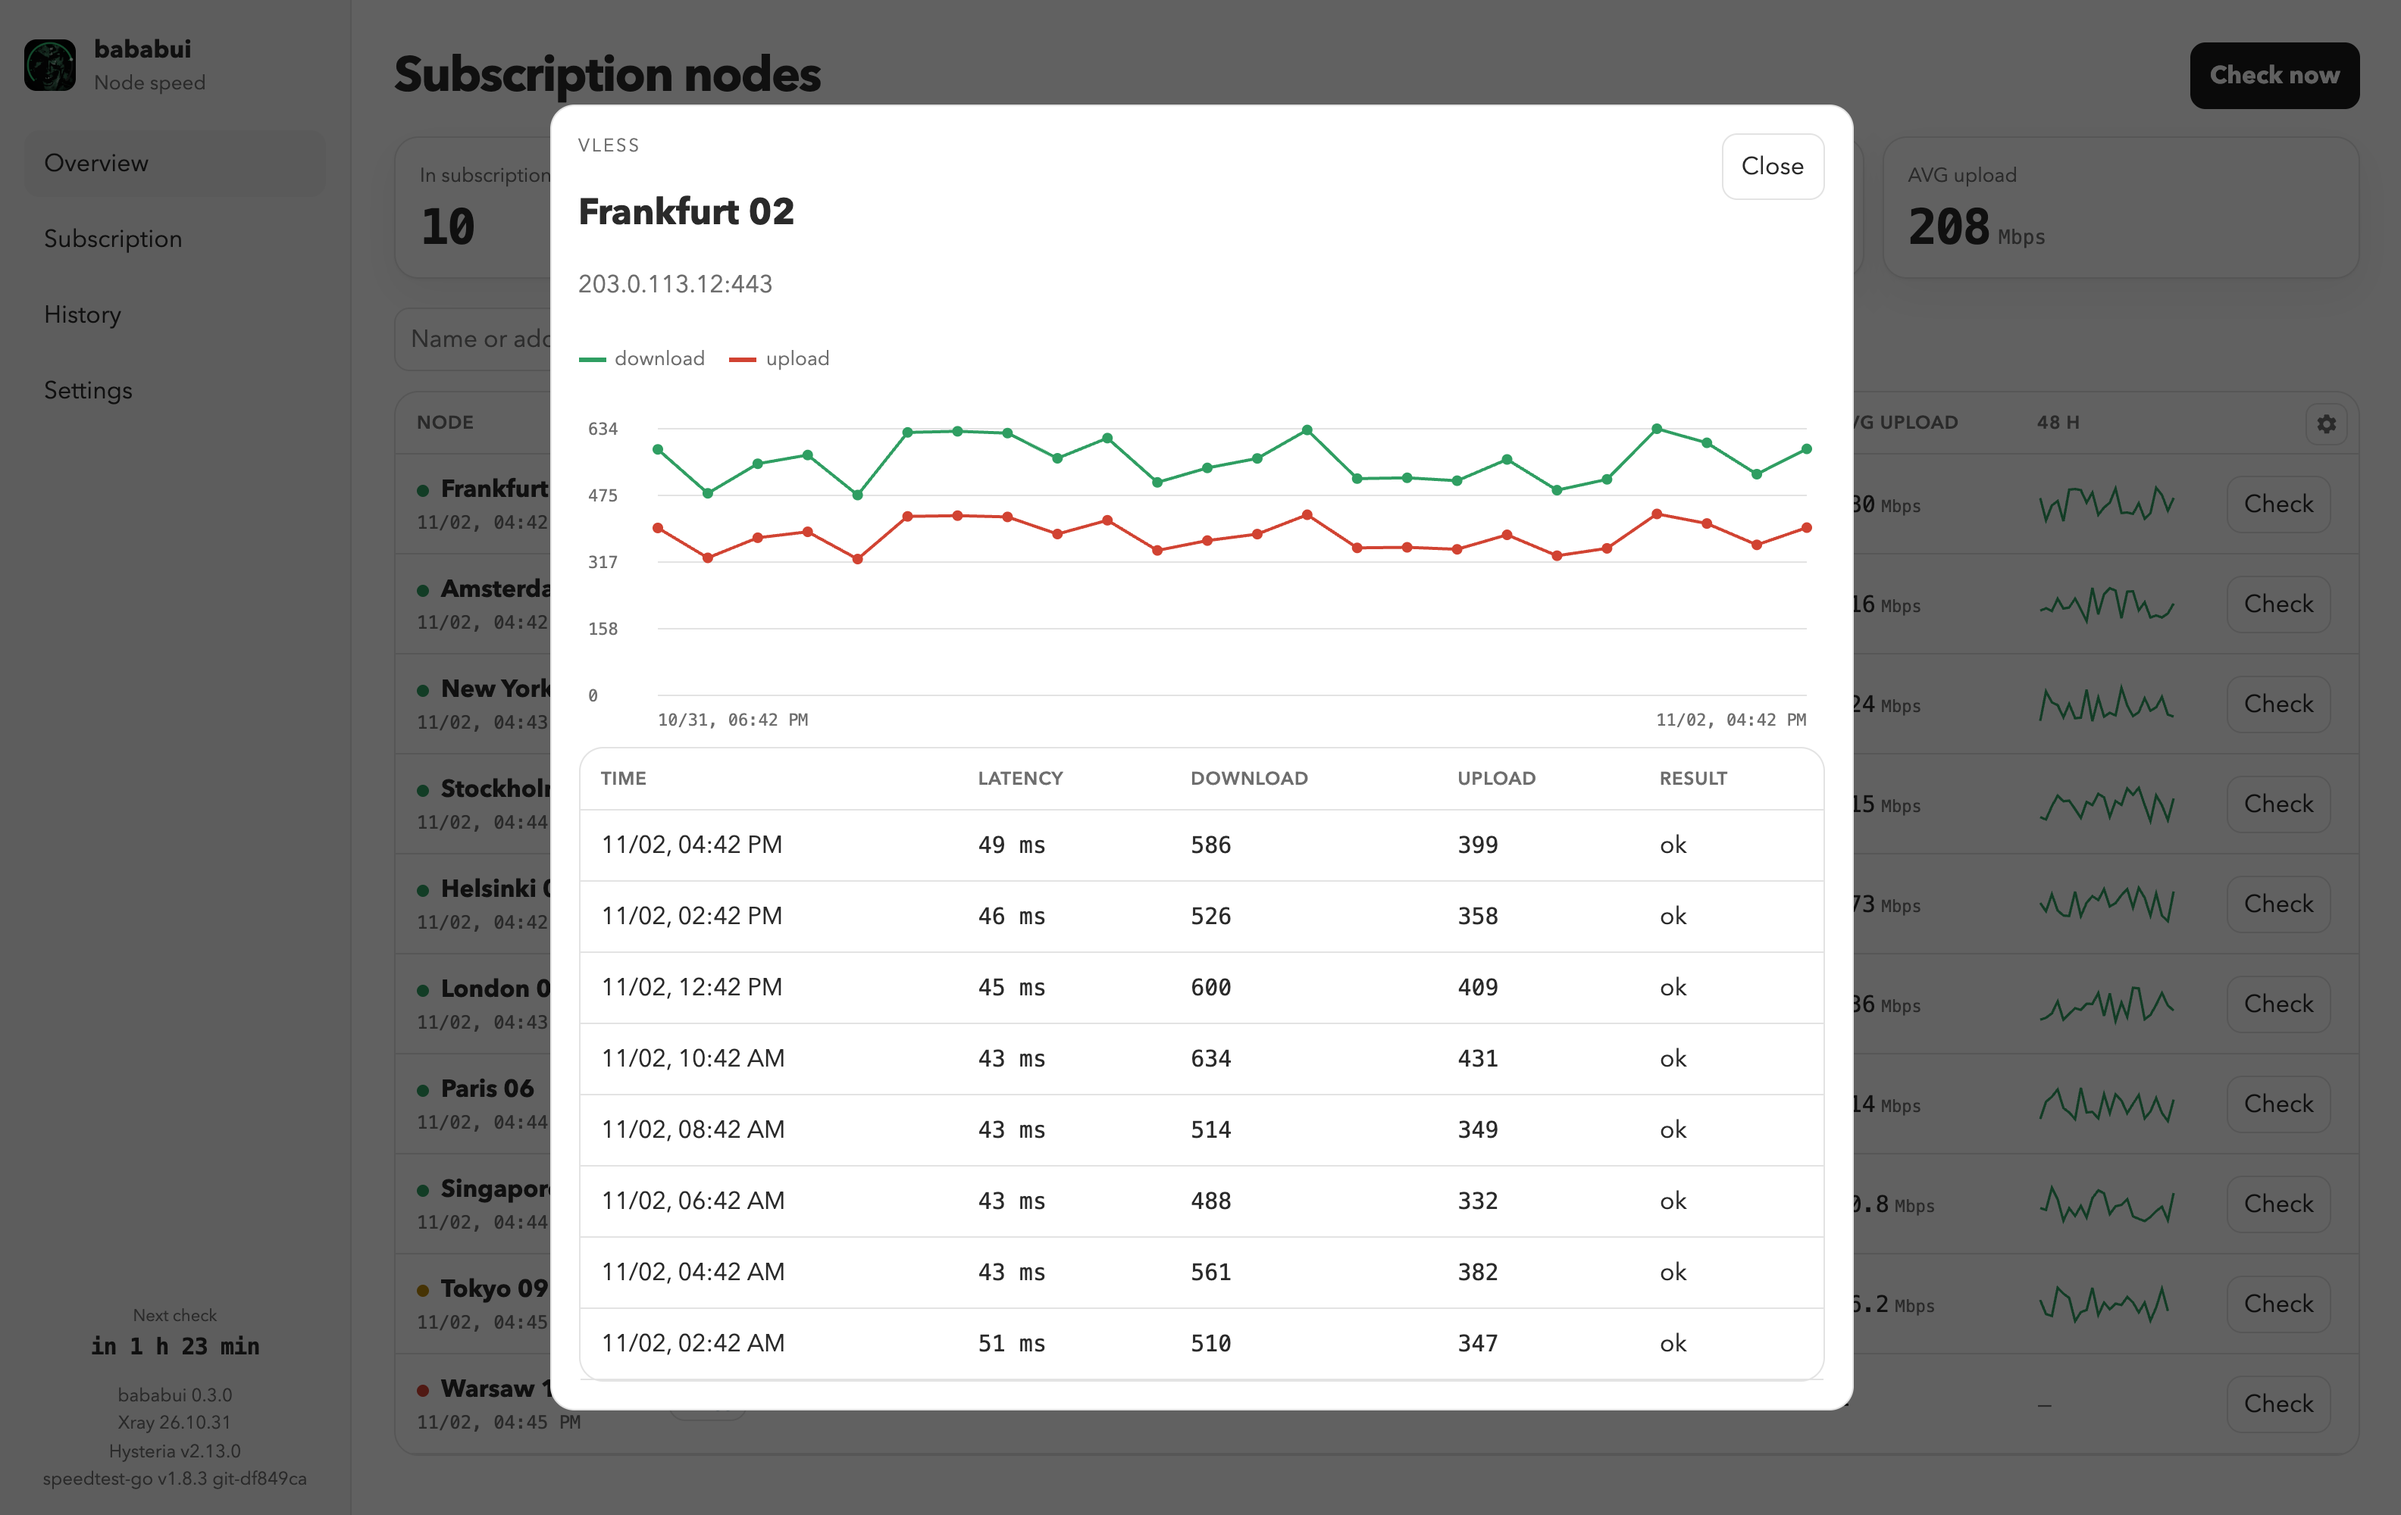
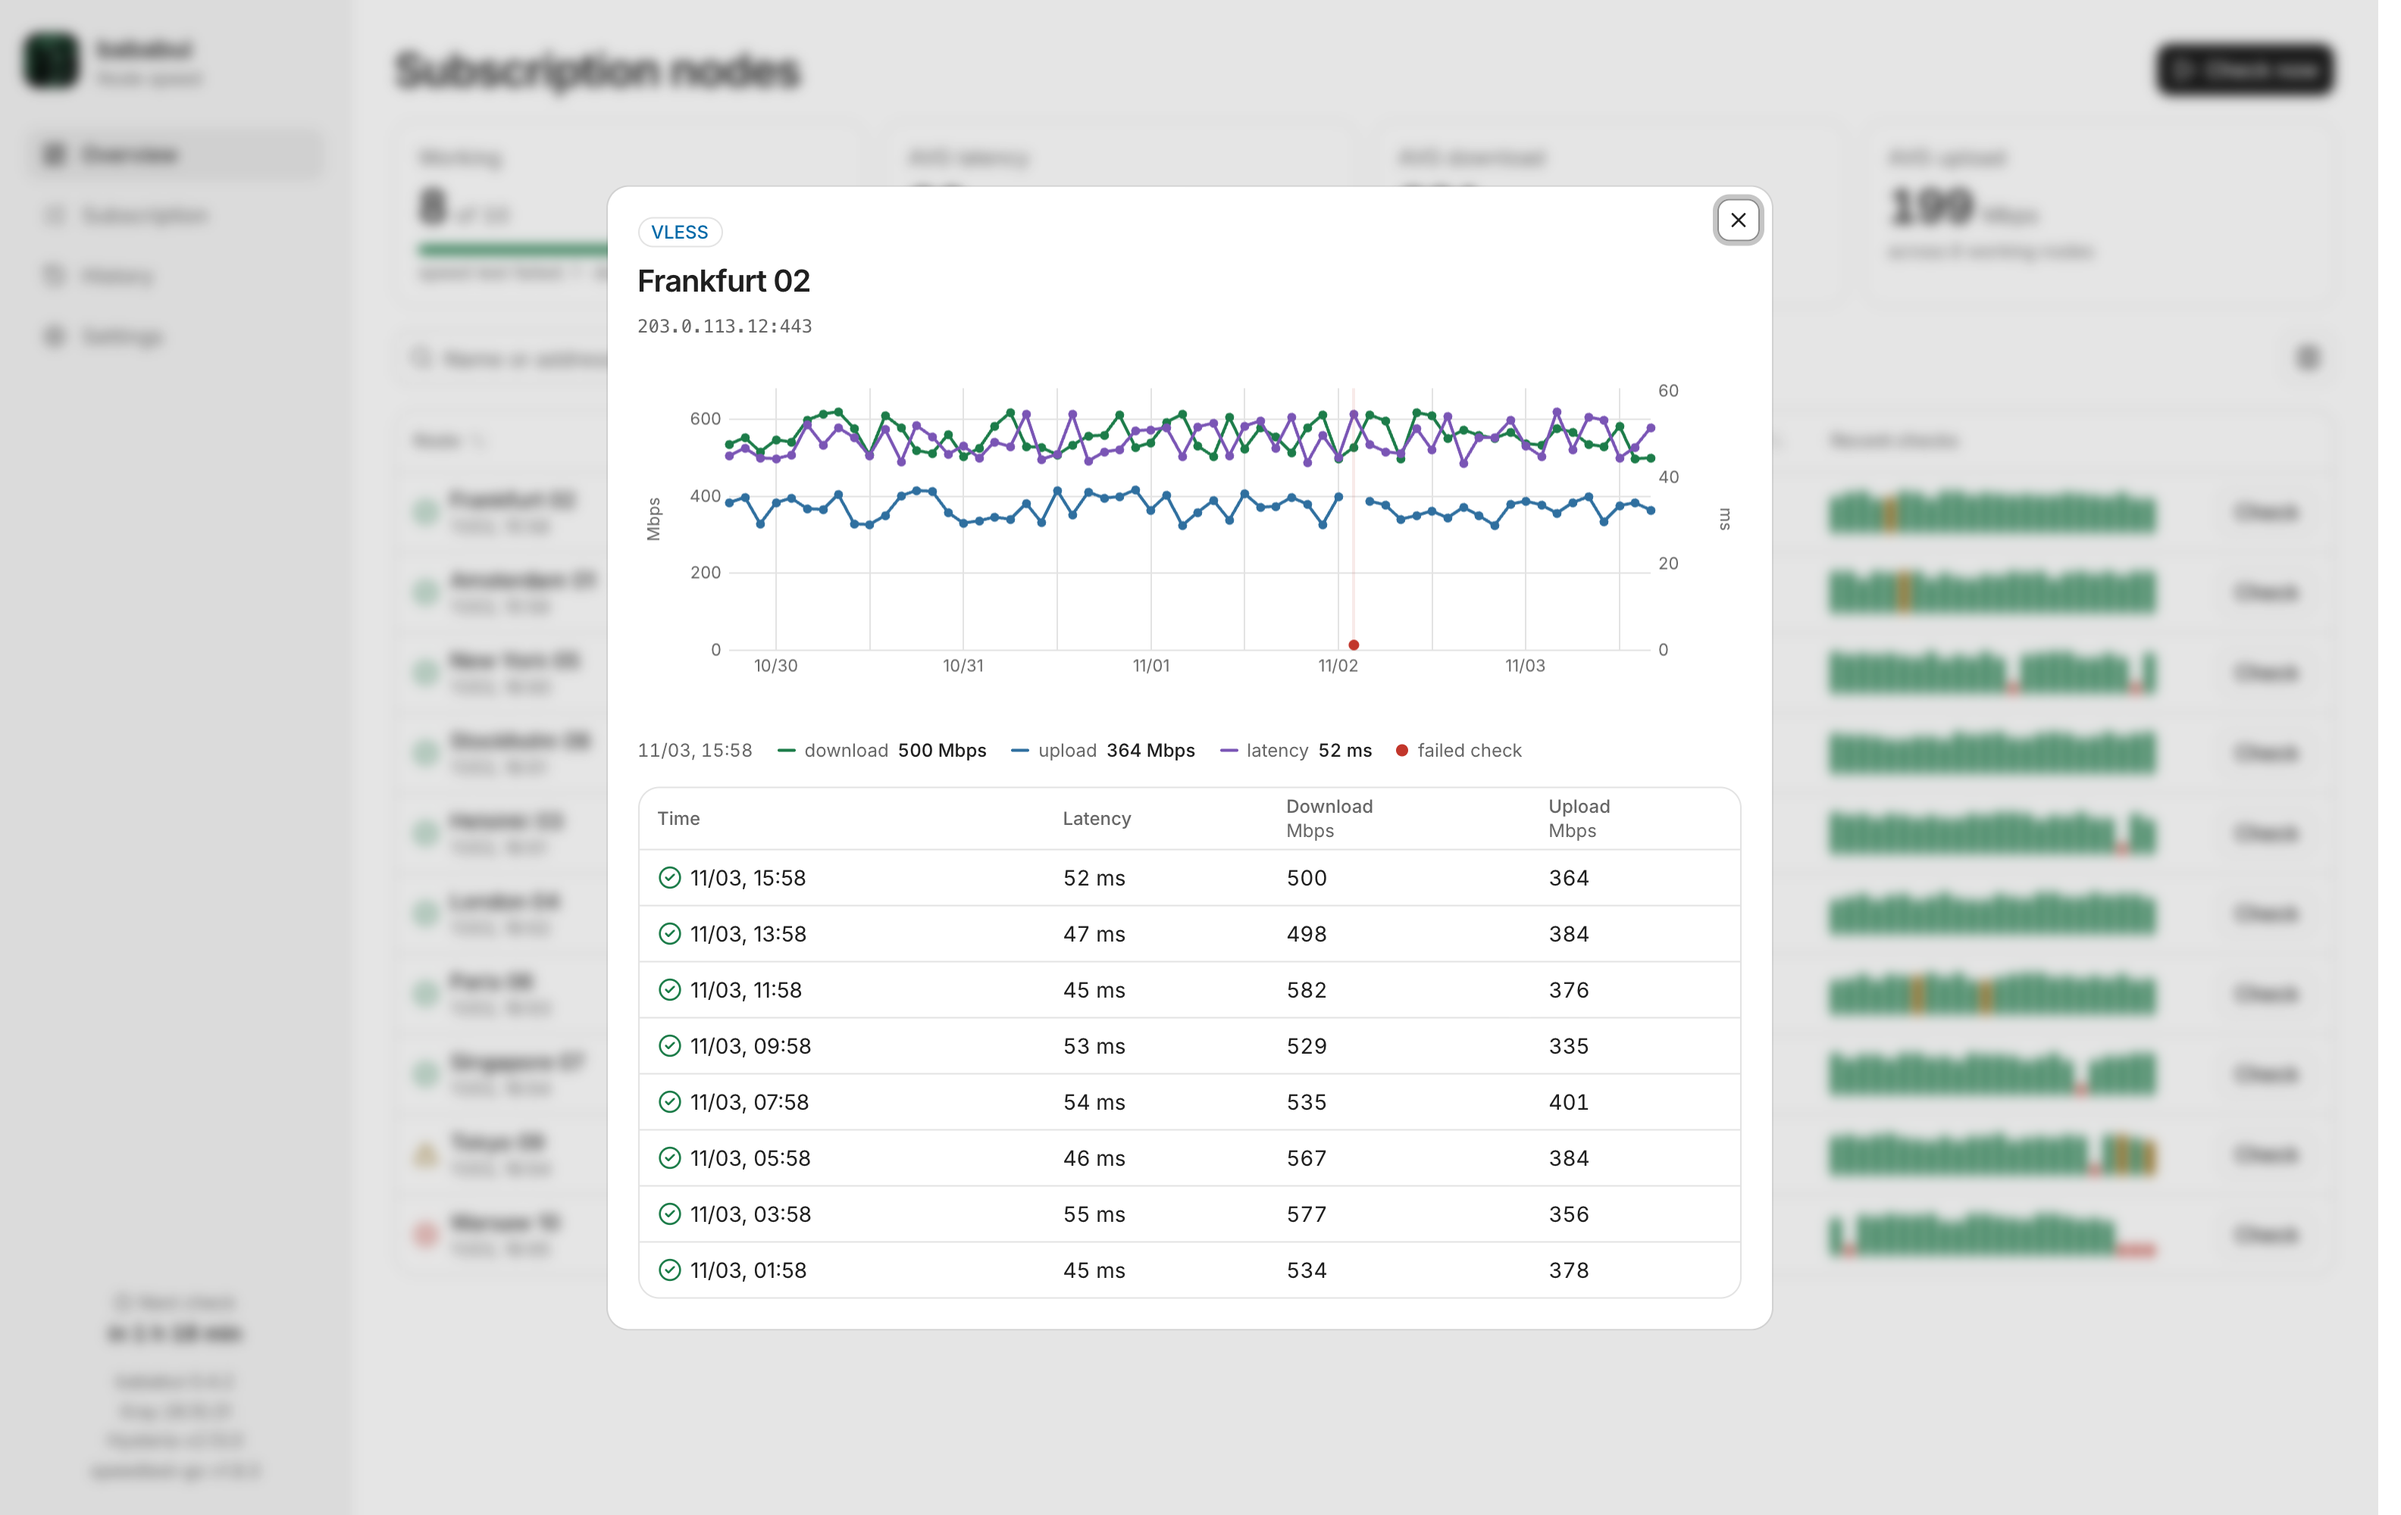
update readme

diff --git a/README.md b/README.md
@@ -14,7 +14,7 @@
   <a href="LICENSE"><img src="https://img.shields.io/github/license/nokk3r/bababui" alt="MIT license"></a>
 </p>
 
-![Overview page with latency, download, and upload for each node](docs/screenshots/overview.png)
+![Overview page in the light and dark themes with node health, latency, download, upload, and recent checks for each node](docs/screenshots/overview.png)
 
 bababui loads the nodes from a subscription link, measures each one on a schedule, and keeps the results in SQLite. You manage everything from a web interface and need nothing on the host except Docker.
 
@@ -23,7 +23,7 @@ bababui loads the nodes from a subscription link, measures each one on a schedul
 - **Real speed through each node:** latency, download, and upload measured by `speedtest-go` through that node.
 - **Wide protocol support:** VLESS, VMess, Trojan, Shadowsocks, WireGuard, and Hysteria2.
 - **Scheduled and manual checks:** every 120 minutes by default, or on demand for all nodes or just one.
-- **History and charts:** per-node graphs, 48-hour sparklines, and CSV export.
+- **History and charts:** per-node graphs, a strip of recent checks for every node, and CSV export.
 - **Clear failure states:** a separate marker for a node that is alive when only the speed test failed.
 - **Small footprint:** one container for `amd64` and `arm64`, with an optional password on the interface.
 - **Works everywhere:** light and dark themes, phone layout, keyboard navigation, and English, Russian, and Chinese.
@@ -66,11 +66,11 @@ docker compose up -d --build
 
 | Node details | Subscription |
 | --- | --- |
-| ![Node details with a speed chart and recent results](docs/screenshots/node.png) | ![Subscription page with the node list](docs/screenshots/subscription.png) |
+| ![Node details with a speed and latency chart and recent results](docs/screenshots/node.png) | ![Subscription page with the node list](docs/screenshots/subscription.png) |
 
 | Check history |
 | --- |
-| ![History page with scheduled and manual runs](docs/screenshots/history.png) |
+| ![History page with scheduled and manual runs, one of them expanded](docs/screenshots/history.png) |
 
 The screenshots show invented nodes and addresses.
 
